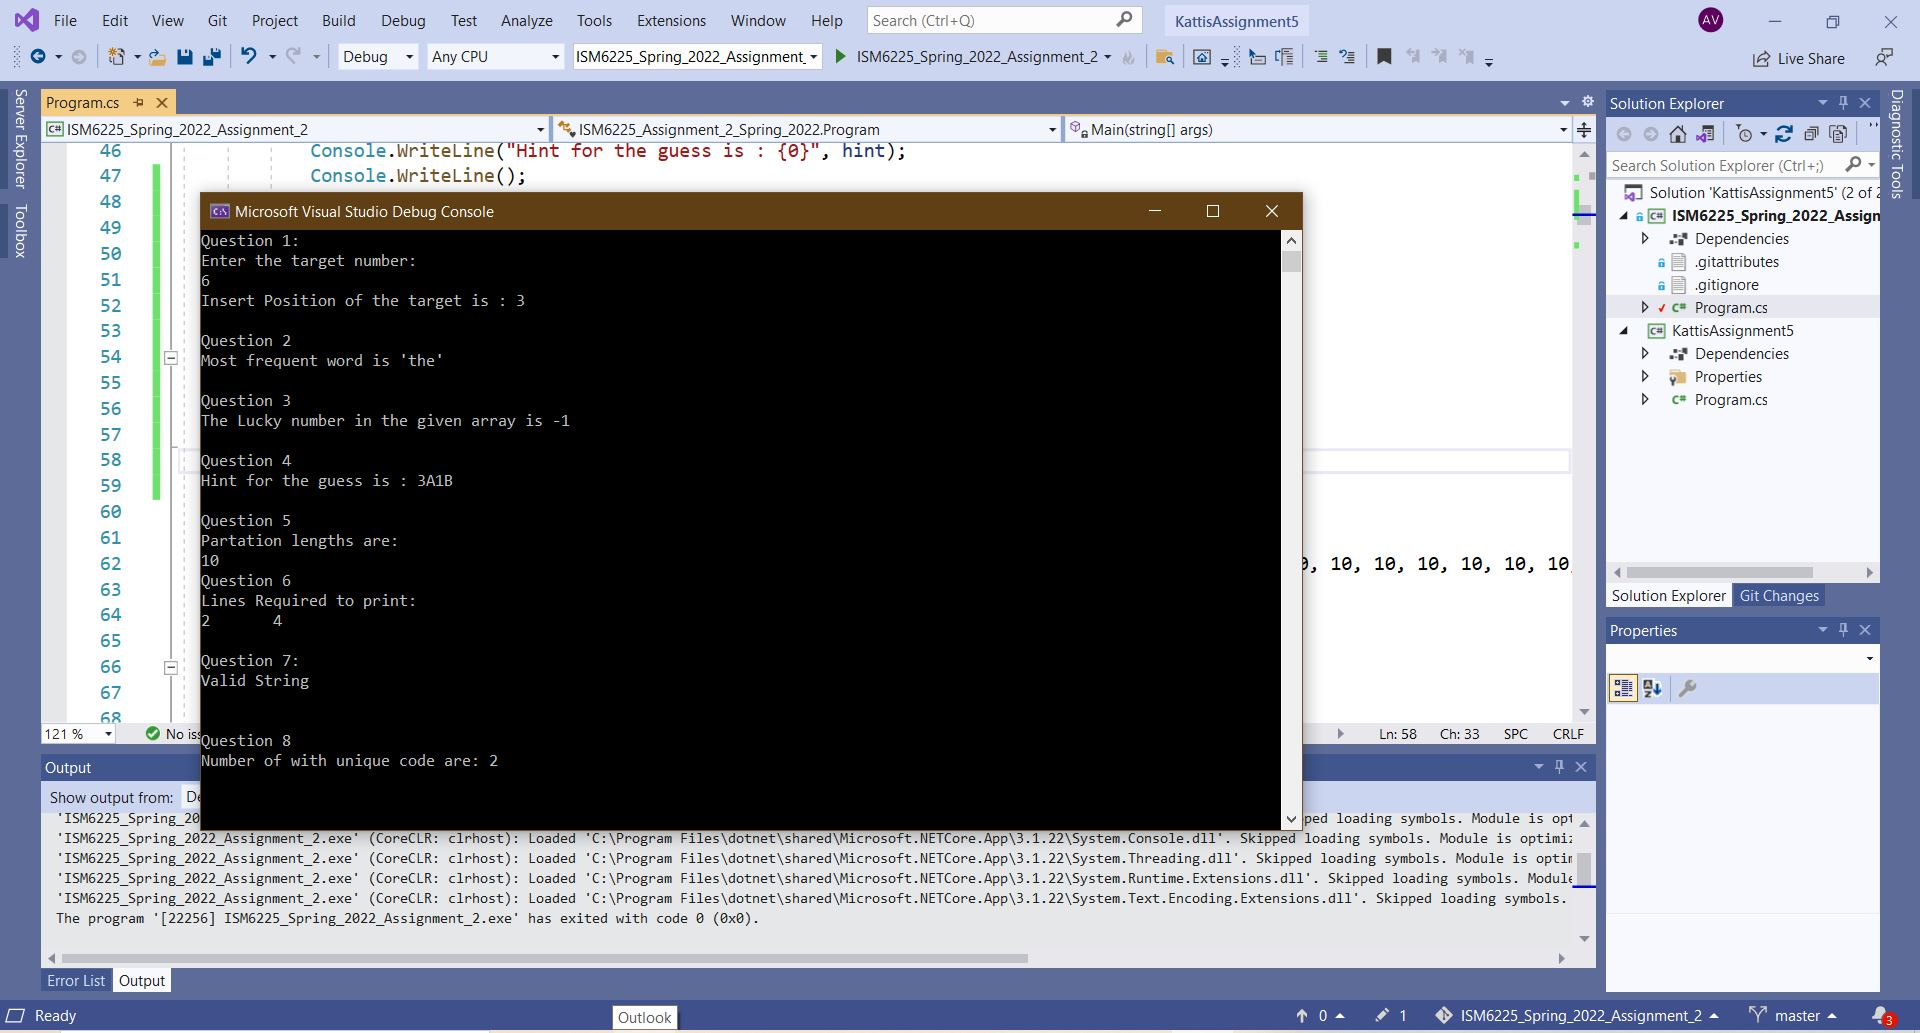
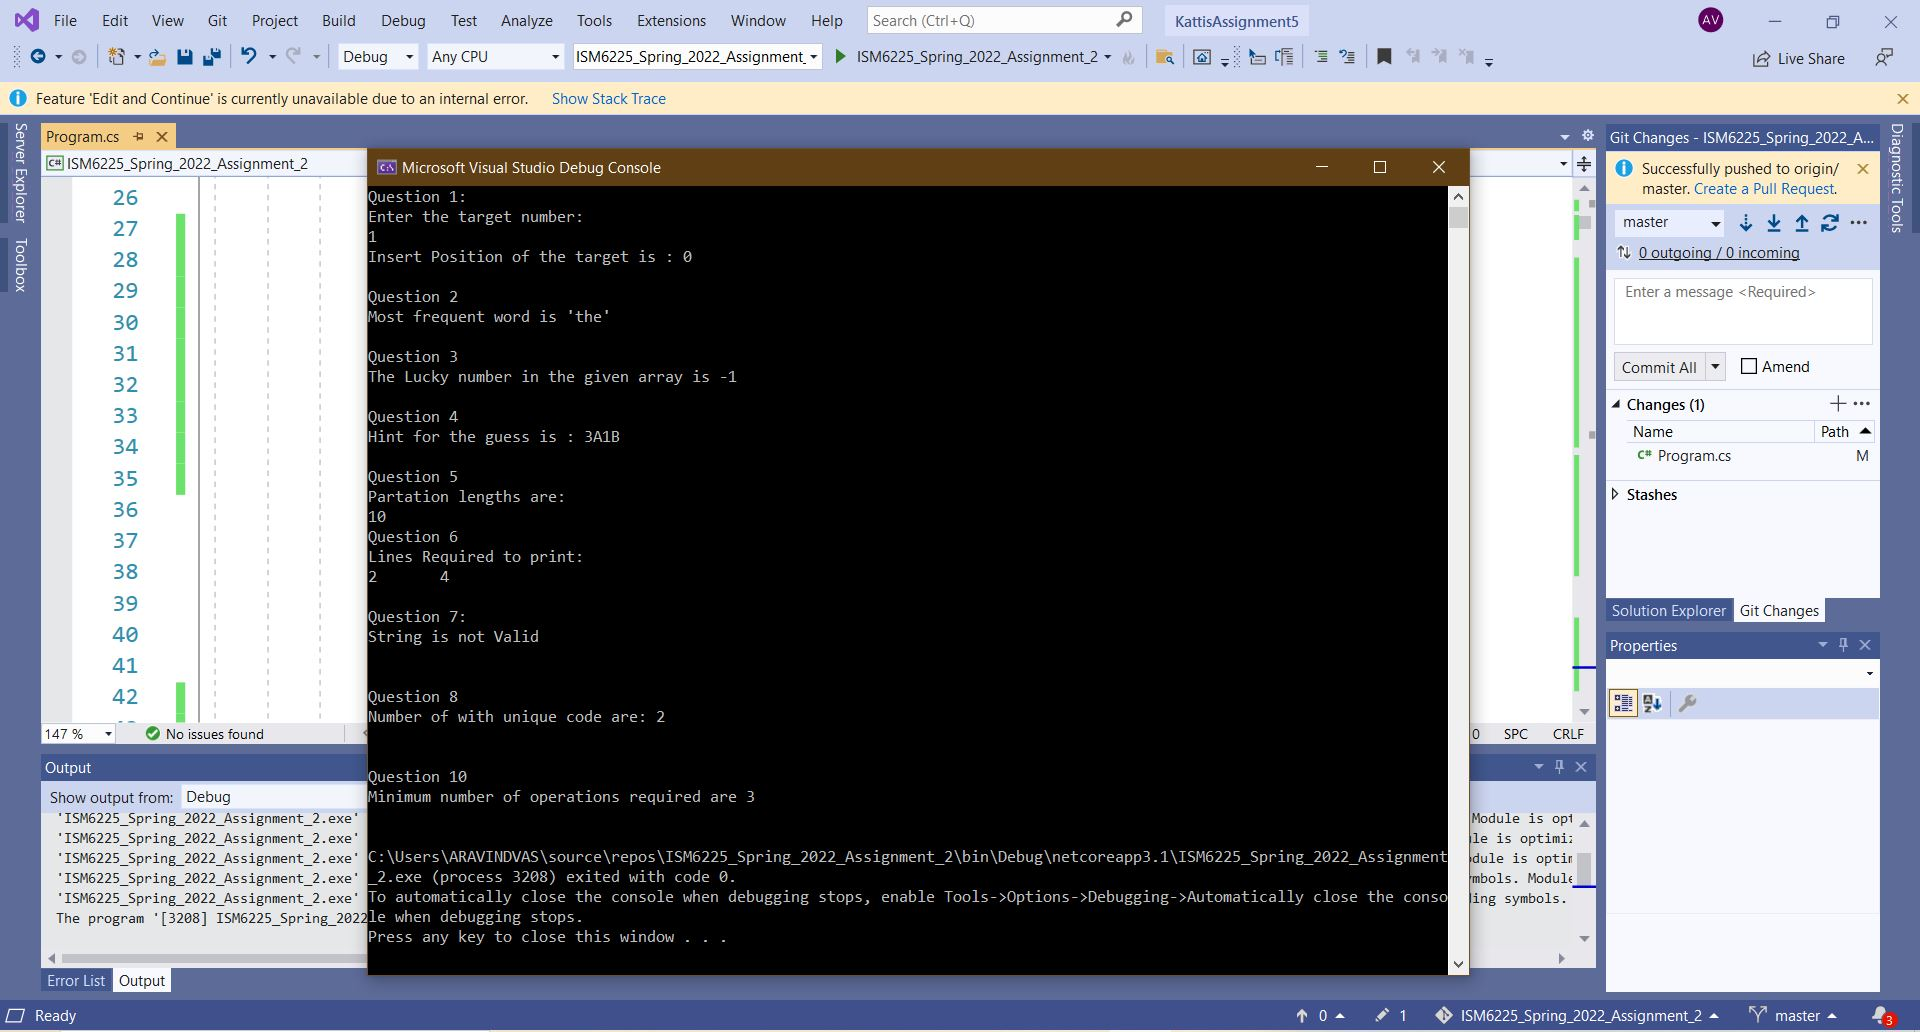
final with Q10

diff --git a/Program.cs b/Program.cs
@@ -84,8 +84,17 @@ namespace ISM6225_Assignment_2_Spring_2022
             Console.WriteLine("Number of with unique code are: {0}", diffwords);
             Console.WriteLine();
             Console.WriteLine();
-           
+            
+            //Question 10:
+            Console.WriteLine("Question 10");
+            string word1 = "horse";
+            string word2 = "ros";
+            int minLen = MinDistance(word1, word2);
+            Console.WriteLine("Minimum number of operations required are {0}", minLen);
+            Console.WriteLine();
         }
+        
+
         /*
         
         Question 1:
@@ -572,6 +581,72 @@ namespace ISM6225_Assignment_2_Spring_2022
                 }
 
             }
+        /*
+         
+        Question 10:
+        Given two strings word1 and word2, return the minimum number of operations required to convert word1 to word2.
+        You have the following three operations permitted on a word:
+        •	Insert a character
+        •	Delete a character
+        •	Replace a character
+         Note: Try to come up with a solution that has polynomial runtime, then try to optimize it to quadratic runtime.
+        Example 1:
+        Input: word1 = "horse", word2 = "ros"
+        Output: 3
+        Explanation: 
+        horse -> rorse (replace 'h' with 'r')
+        rorse -> rose (remove 'r')
+        rose -> ros (remove 'e')
+        */
+
+        public static int MinDistance(string word1, string word2)
+        {
+            try
+            {
+                int w1Length = word1.Length;
+                int w2Length = word2.Length;
+
+                if (w1Length == 0 || w2Length == 0)
+                {
+                    return w1Length + w2Length;
+                    //if both the words have 0 length returning addition of their lengths
+                }
+
+                int[,] operationsP = new int[w1Length + 1, w2Length + 1];
+
+                for (int i = 0; i <= w1Length; i++)
+                {
+                    for (int j = 0; j <= w2Length; j++)
+                    {
+                        if (i == 0)
+                        {
+                            operationsP[i, j] = j;
+                        }
+                        else if (j == 0)
+                        {
+                            operationsP[i, j] = i;
+                        }
+                        else if (word1[i - 1] == word2[j - 1])
+                        {
+                            operationsP[i, j] = operationsP[i - 1, j - 1];
+                        }
+                        else
+                        {
+                            int x = Math.Min(operationsP[i, j - 1], operationsP[i - 1, j]);
+                            operationsP[i, j] = Math.Min(operationsP[i - 1, j - 1], x) + 1;
+                        }
+                    }
+                }
+
+                return operationsP[w1Length, w2Length];
+
+            }
+            catch (Exception)
+            {
+
+                throw;
+            }
+        }
     }
 }
 //Self-Reflection
@@ -584,19 +659,21 @@ time taken     - 35min
 learnings      - using boolean, dictionary, splitting using array of charecters
 Question3: 
 time taken     - 45min
-learnings      - using dictionary, keys and values 
+learnings      - using dictionary, keys and values, using o(n)
 Question4: 
 time taken     - 40min
 Question5: 
 time taken     - 55min
-learnings      - using lists and its attribute methods
+learnings      - using lists and its attribute methods, using o(n)
 Question6: 
 time taken     - 45min
 learnings      - using flag and lists
 Question7: 
 time taken     - 15min
-learnings      - using o(n)
 Question8: 
 time taken     - 25min
+learnings      - using lists and its attribute
+Question10: 
+time taken     - 125min
 learnings      - using o(n)
 */
